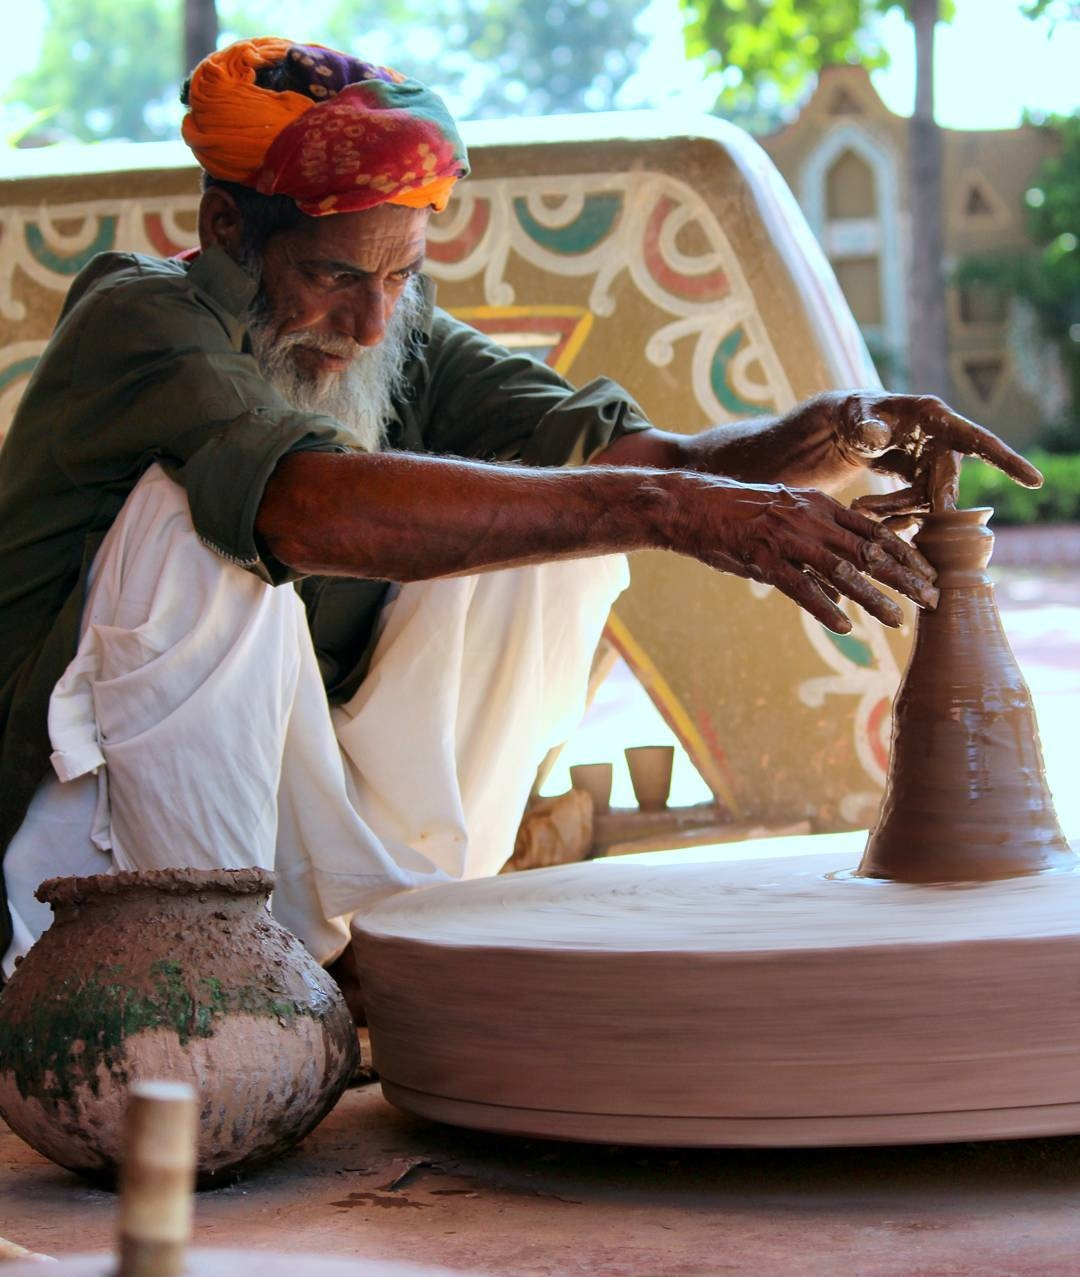
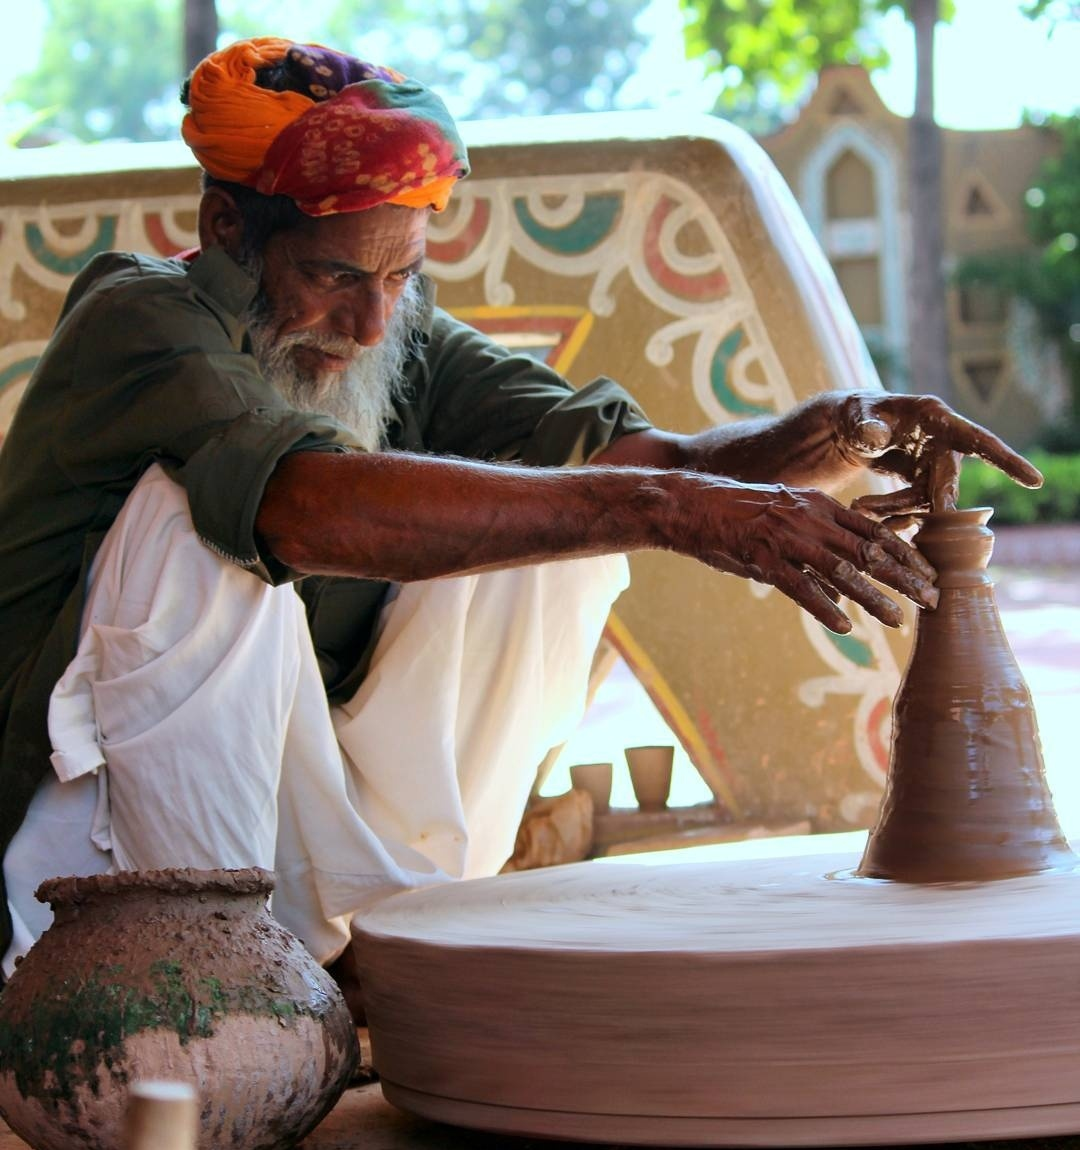
fix(ui): fix cropped artisan images, orientations, and card aspect ratios

diff --git a/frontend/src/app/page.tsx b/frontend/src/app/page.tsx
@@ -507,7 +507,7 @@ export default function Marketplace() {
                         }
                         alt={heroArtisan.name}
                         fill
-                        className="object-cover"
+                        className="object-cover object-top"
                       />
                     </div>
                     <div>
@@ -576,7 +576,7 @@ export default function Marketplace() {
                   src="/images/artisans/ghulam-nabi.jpg"
                   alt="Kashmiri Pashmina"
                   fill
-                  className="object-cover group-hover:scale-110 transition-transform duration-500"
+                  className="object-cover object-[center_top] group-hover:scale-110 transition-transform duration-500"
                 />
               </div>
               <h3 className="font-serif font-bold text-sm text-[#221C18] group-hover:text-[#701D24] transition-colors">
@@ -597,7 +597,7 @@ export default function Marketplace() {
                   src="/images/artisans/dulari-devi.jpg"
                   alt="Madhubani Paintings"
                   fill
-                  className="object-cover group-hover:scale-110 transition-transform duration-500"
+                  className="object-cover object-[center_top] group-hover:scale-110 transition-transform duration-500"
                 />
               </div>
               <h3 className="font-serif font-bold text-sm text-[#221C18] group-hover:text-[#701D24] transition-colors">
@@ -958,7 +958,7 @@ export default function Marketplace() {
                 className="bg-white rounded-2xl overflow-hidden border border-[#E8DCCB] p-6 shadow-sm hover:shadow-xl transition-all duration-300 flex flex-col justify-between group"
               >
                 <div>
-                  <div className="relative w-full h-56 rounded-xl overflow-hidden mb-5">
+                  <div className="relative w-full aspect-[4/3] rounded-xl overflow-hidden mb-5 bg-[#FAF7F2]">
                     <Image
                       src={
                         art.avatarUrl ||
@@ -966,7 +966,7 @@ export default function Marketplace() {
                       }
                       alt={art.name}
                       fill
-                      className="object-cover group-hover:scale-105 transition-transform duration-500"
+                      className="object-cover object-[center_top] group-hover:scale-105 transition-transform duration-500"
                     />
                     <div className="absolute bottom-3 left-3 bg-[#221C18]/80 backdrop-blur-sm text-[#E8CA82] text-[11px] font-semibold px-2.5 py-1 rounded flex items-center gap-1">
                       <MapPin className="w-3 h-3" /> {art.region || "India"}
@@ -1208,7 +1208,7 @@ export default function Marketplace() {
                       src={coverImg}
                       alt={article.title}
                       fill
-                      className="object-cover group-hover:scale-105 transition-transform duration-500"
+                      className="object-cover object-[center_top] group-hover:scale-105 transition-transform duration-500"
                     />
                     <div className="absolute top-3 left-3 bg-white/90 backdrop-blur-sm text-[#701D24] text-[10px] font-bold uppercase tracking-wider px-2.5 py-1 rounded">
                       {article.category || "Heritage"}
@@ -1322,7 +1322,7 @@ export default function Marketplace() {
                   src={artisanStory.img}
                   alt={artisanStory.name}
                   fill
-                  className="object-cover"
+                  className="object-cover object-[center_top]"
                 />
               </div>
               <div>

diff --git a/frontend/src/app/artisans/page.tsx b/frontend/src/app/artisans/page.tsx
@@ -33,7 +33,7 @@ export default function ArtisansPage() {
                   src={artisan.profilePicture}
                   alt={artisan.name}
                   fill
-                  className="object-cover group-hover:scale-105 transition-transform duration-700"
+                  className="object-cover object-[center_top] group-hover:scale-105 transition-transform duration-700"
                 />
                 <div className="absolute inset-x-0 bottom-0 h-1/2 bg-gradient-to-t from-black/50 to-transparent" />
                 <div className="absolute bottom-4 left-4 right-4">
